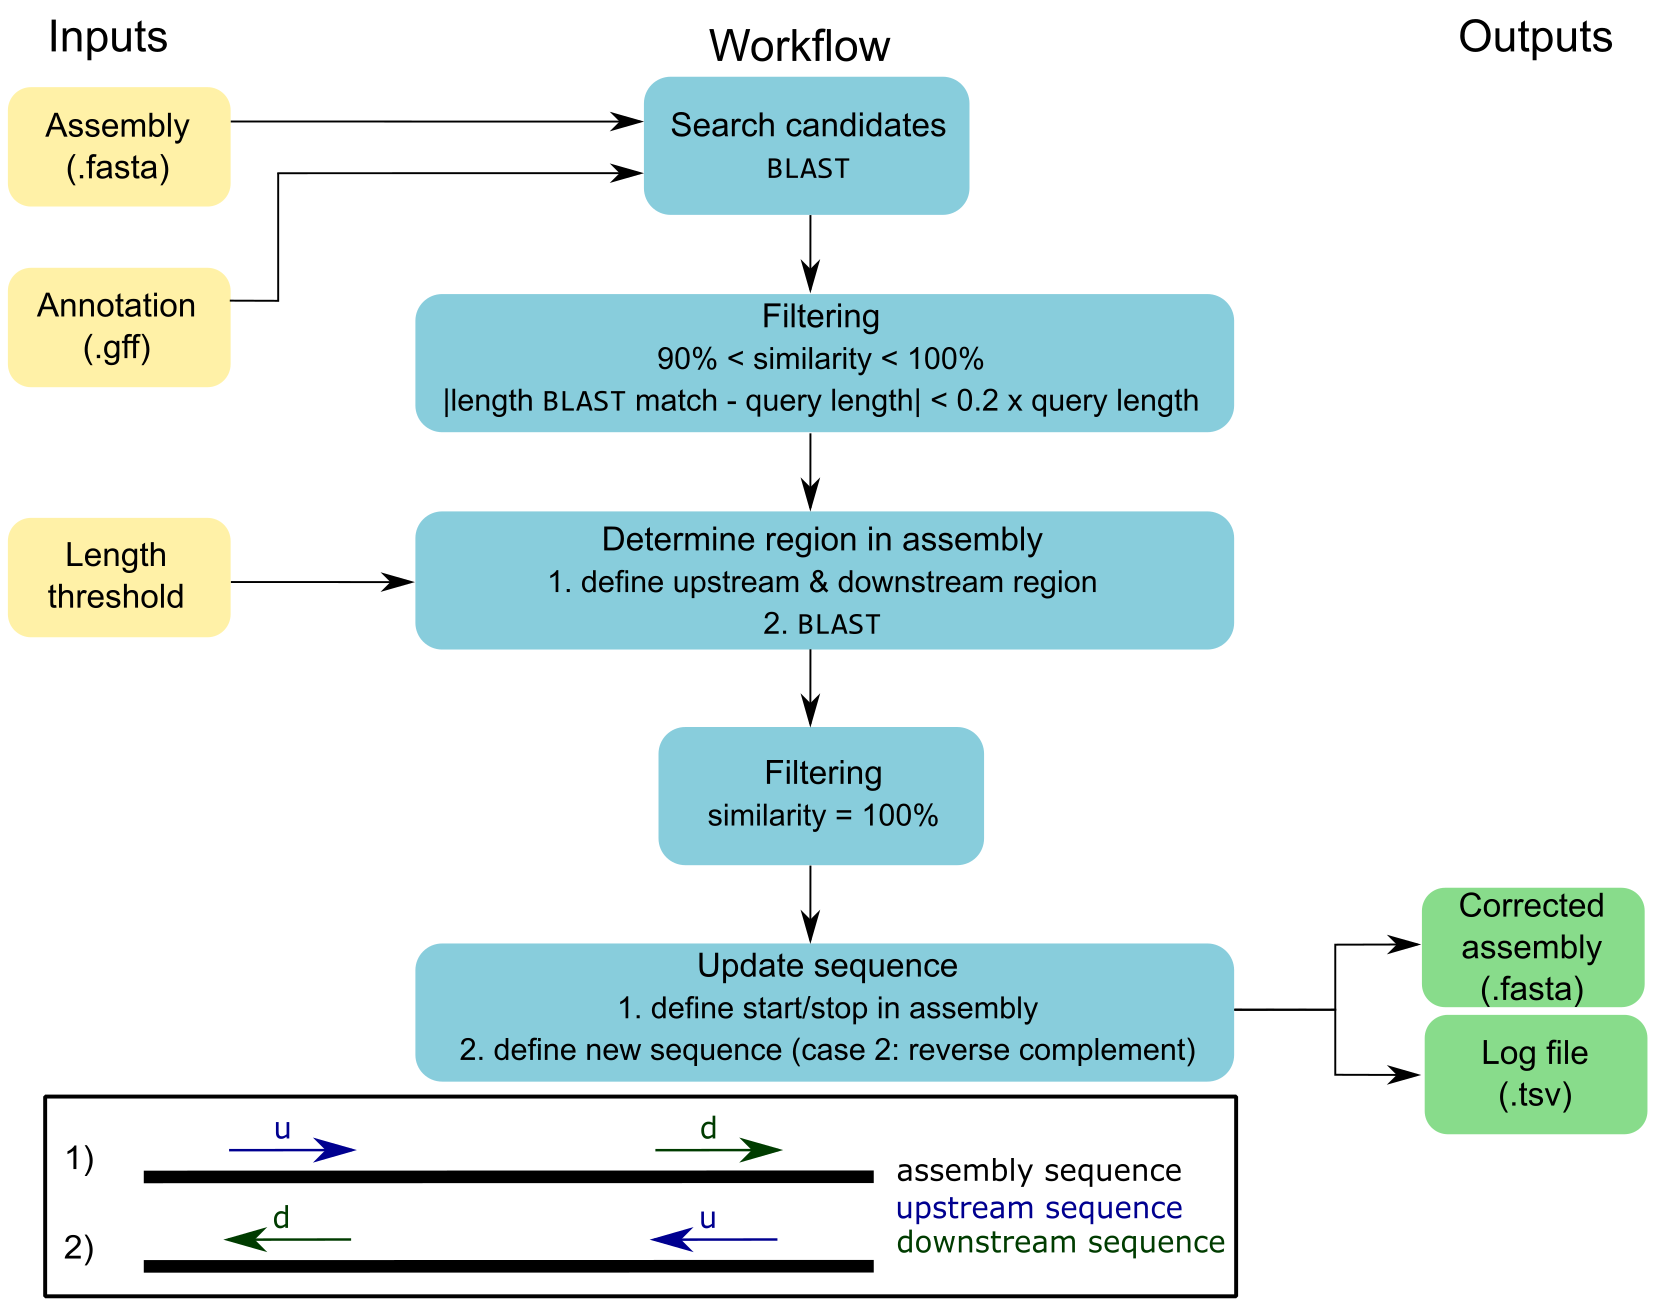
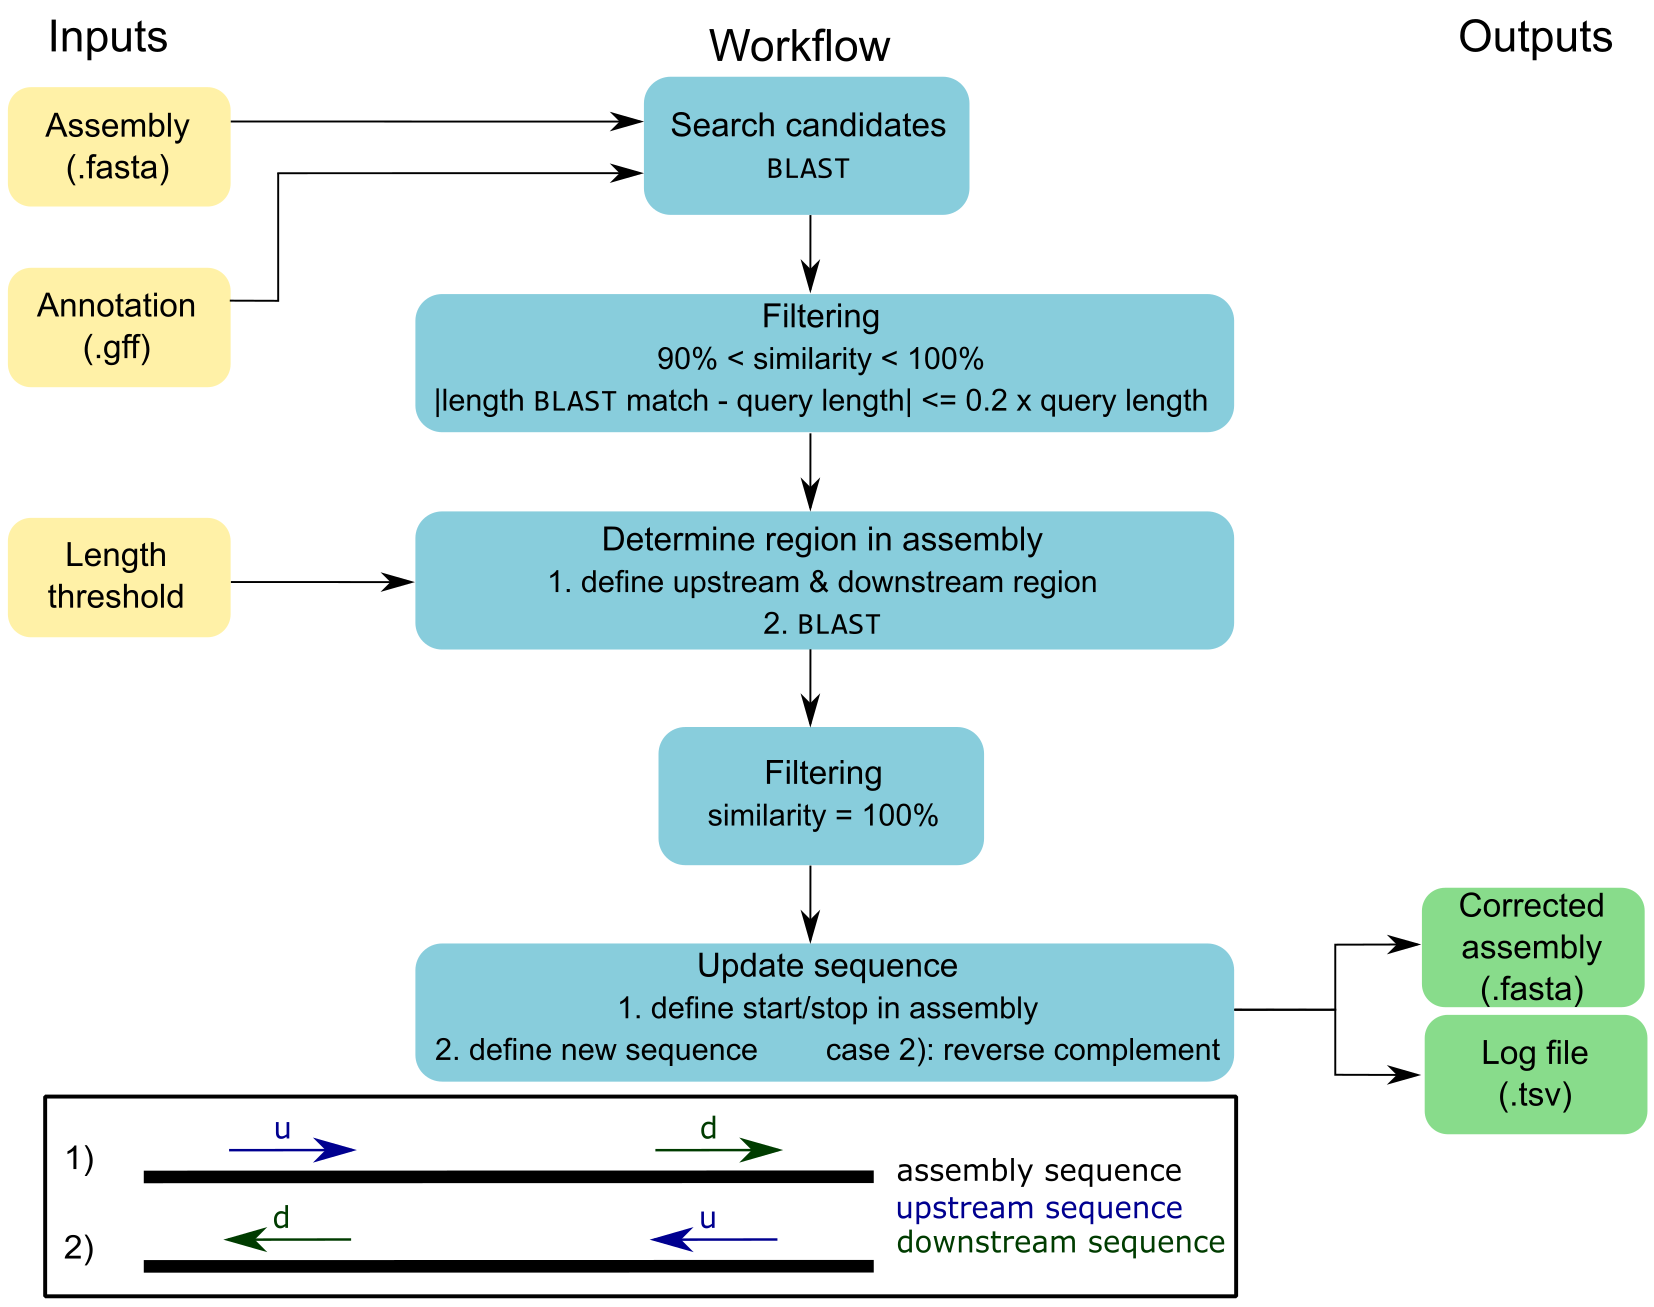
Update README and workflow (really minor changes)

Changed region(s): [[0.2775, 0.2754, 0.74, 0.3366], [0.2775, 0.7957, 0.74, 0.8263]]

diff --git a/README.md b/README.md
@@ -2,17 +2,17 @@
 
 ## Summary
 ``cORFusi`` (correction of ORFs utilizing short-read information) corrects hybrid *de novo* assembled genomes using additional short-read assemblies and corresponding annotations.
-Updating gene sequences and thus correcting ORFs leads to the annotation of complete genes.
+Updating gene sequences and thus correcting ORFs can lead to the annotation of complete genes.
 Additional information regarding gene products and IDs could be added by [``Prokka``](https://github.com/tseemann/prokka) during annotation.
 
-As input, an assembly (.fasta), an annotation (.gff) and a length threshold for up- and downstream region is required.
+As input, an assembly (.fasta), an annotation (.gff), and a length threshold for up- and downstream region are required.
 The genes listed in the annotation file are searched in the assembly via ``BLAST``.
-These candidates are filtered by two criteria: 1. 90% < similarity < 100%, 2. the length of the ``BLAST`` match may deviate by a maximum of 20% from the query length, i.e. length of the CDS.
+These best-match candidates are filtered by two criteria: (1) 90% < similarity < 100%, (2) the length of the ``BLAST`` match may deviate by a maximum of 20% from the query length, i.e. length of the CDS.
 Subsequently, upstream and downstream regions are defined for each candidate using the predefined length threshold, which are then blasted against the assembly.
 Only exact matches are allowed.
 This procedure determines the position of the ORF in the assembly.
-If necessary, the reverse complement of the new sequence is calculated, which corresponds to cases 3) and 4), where the downstream region matched before the upstream region.
-Finally, the sequence can be updated and the corrected assembly and corresponding log file are saved.
+If necessary, the reverse complement of the new sequence is calculated, which corresponds to the second case, where the downstream region aligns before the upstream region.
+Finally, the sequence is updated and the corrected assembly and corresponding log file are saved.
 
 ![Simplified overview of the ORF correction workflow with cORFusi.](pics/workflow.png)
 ***Figure 1: Simplified overview of the ORF correction workflow with ``cORFusi``.***
